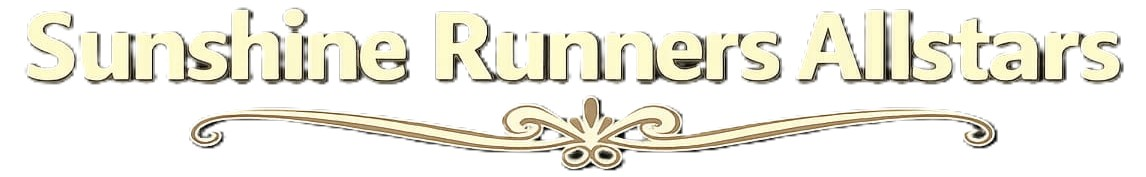
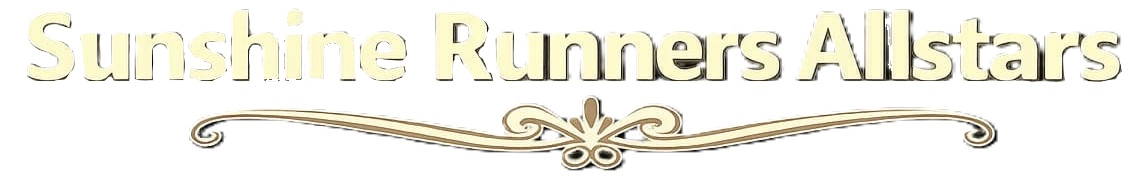
video + desinh

diff --git a/style.css b/style.css
@@ -197,6 +197,27 @@ body::before {
   margin-bottom: 12px;
 }
 
+.video-gallery {
+  margin-top: 12px;
+  display: grid;
+  gap: 12px;
+  justify-items: center;
+}
+
+.video-gallery video {
+  width: 100%;
+  max-width: 720px;
+  border: 4px solid rgba(93, 64, 55, 0.35);
+  border-radius: 14px;
+  background-color: #000;
+}
+
+.video-caption {
+  color: #4e342e;
+  font-size: 0.95rem;
+  text-align: center;
+}
+
 .page hr {
   border: none;
   border-top: 2px solid #d7ccc8;

diff --git a/index.html b/index.html
@@ -85,6 +85,13 @@
       <p><strong>Fotos:</strong></p>
 
       <p><strong>Videos:</strong></p>
+      <div class="video-gallery">
+        <video controls poster="">
+          <source src="Dressur Video 1.mp4" type="video/mp4">
+          Ihr Browser unterstützt das Video-Tag nicht.
+        </video>
+        <p class="video-caption">Unser erstes Club-Video: Dressur-Training mit den Sunshine Runners Allstars.</p>
+      </div>
     </section>
 
     <!-- Mitglieder -->